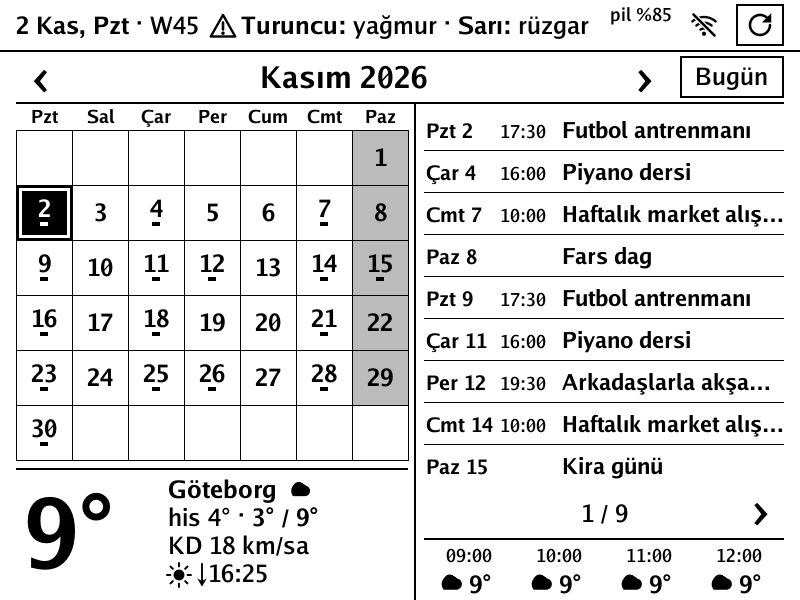
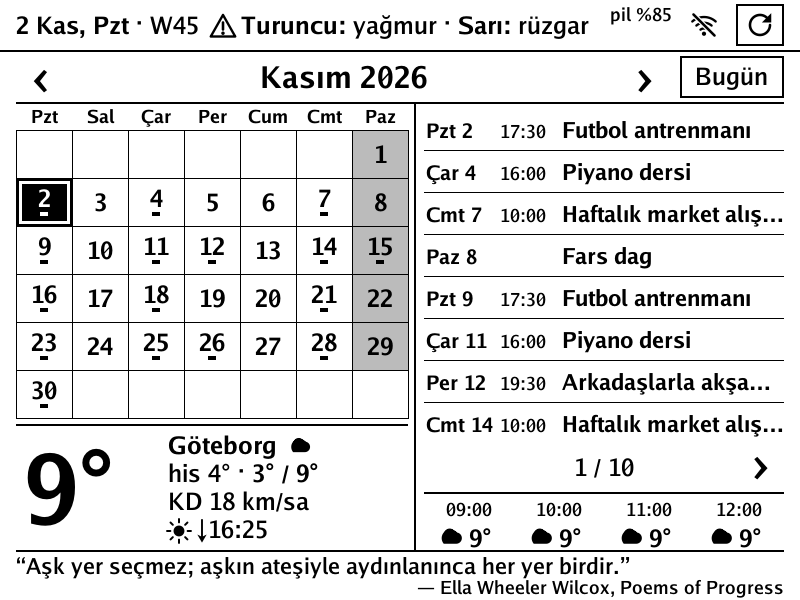
Passage band along the bottom of the calendar screen
Today's passage comes back on one 22 px line with its author below (48 px),
taken from the month grid and the list.

Changed region(s): [[0.0, 0.27, 1.0, 1.0], [0.25, 0.3, 0.2812, 0.66]]

diff --git a/kobo/screen.go b/kobo/screen.go
@@ -2,13 +2,12 @@ package main
 
 // The one screen: calendar first. Left: the month, Göteborg (or wherever the device is) now.
 // Right: the selected day and everything after it, one line per event, over the next hours.
-// SMHI warnings ride in the header (nav).
+// SMHI warnings ride in the header (nav); a passage runs along the bottom.
 
 import (
 	"fmt"
 	"image"
 	"image/color"
-	"os"
 	"time"
 )
 
@@ -17,25 +16,9 @@ const (
 	rx    = split + 16
 )
 
+// drawMain: header; month over the weather now (left); the list over the next hours (right);
+// today's passage on one line along the bottom.
 func (a *App) drawMain(img *image.Gray) {
-	if os.Getenv("QBAND") != "" { // PROTO
-		a.drawMainQ(img)
-		return
-	}
-	a.nav(img)
-	a.monthNav(img, image.Rect(mx, 54, W-mx, 100))
-	fill(img, image.Rect(mx, 102, W-mx, 104), black)
-	fill(img, image.Rect(split+6, 104, split+8, H), black)
-	a.dayGrid(img, image.Rect(mx, 104, split, 464), a.month, 6)
-	fill(img, image.Rect(mx, 468, split, 470), black)
-	a.drawNow(img, 470)
-	a.drawAgenda(img, image.Rect(rx, 108, W-mx, 534), 42)
-	fill(img, image.Rect(rx, 538, W-mx, 540), black)
-	a.drawHours(img, rx, 540, 4)
-}
-
-// PROTO: the same screen over a one-line passage band along the bottom (48 px).
-func (a *App) drawMainQ(img *image.Gray) {
 	a.nav(img)
 	a.monthNav(img, image.Rect(mx, 54, W-mx, 100))
 	fill(img, image.Rect(mx, 102, W-mx, 104), black)

diff --git a/kobo/quotes.go b/kobo/quotes.go
@@ -18,7 +18,7 @@ var quotesTSV string
 
 type Quote struct{ Text, Author, Work string }
 
-// quoteFace: the one-line passage band's face (not on the calendar screen; kept with the pool).
+// quoteFace: the one-line passage band along the bottom of the screen.
 func quoteFace() font.Face { return face(false, 22) }
 
 var quotes = func() []Quote {

diff --git a/README.md b/README.md
@@ -17,6 +17,7 @@ One screen, calendar first:
 - **The weather now** under the month: the home city with a large temperature and four short lines beside it: place, feels-like with the day's min/max (tomorrow's after 17:00, marked `yarın`), wind, and the next sunset or sunrise (`☀↓16:28`). Under the list, a thin strip with the next four hours. Both come from the [SMHI](https://opendata.smhi.se) point forecast (no API key; SMHI only covers the Nordics).
 - **Official SMHI warnings** in the top bar, right of the date and ISO week, on one line: `Turuncu: şiddetli yağmur · Sarı: kuvvetli rüzgar`, shortened to `Turuncu: yağmur · Sarı: rüzgar` (and the month name to `Kas`) when space runs out.
 - **Where it is**, unless the config names a place: the city is looked up from the public IP once a day ([geojs.io](https://www.geojs.io) and [ipwho.is](https://ipwho.is), no key). The two have to agree within 50 km, and a move further than that is only believed when a second lookup an hour later says the same, because IP databases put some ISPs in Stockholm one minute and Göteborg the next. The county found this way also picks the SMHI warnings, unless `WARN_REGION` is set.
+- **One passage a day** along the bottom, on a single line with its author below: prose from public-domain novels and essays, and verse from public-domain poets, in Turkish (`kobo/quotes.tsv`).
 - A top bar with the next scheduled update and battery level, Wi-Fi state (tap to pin it on) and a refresh button that also checks for a new release.
 
 ### Why it looks like this
@@ -147,7 +148,7 @@ To publish a release: `tools/release.sh v0.2.0` builds, signs, tags and uploads 
 
 `kobo/quotes.tsv` holds 220 passages: 144 sentences from novels, 38 from essays and philosophy (Stevenson, Chesterton, Emerson, Marcus Aurelius and others), 34 extracts from English poems and 4 from Yunus Emre. Religious lines, including mystic verse about the love of God, are left out on purpose. Each row has the Turkish text, author, work, the original and its source (a Project Gutenberg book number, or `ws:` for a Turkish Wikisource page). Every passage is one line on screen: long ones were cut by hand to a self-contained excerpt (the `en` column holds the matching piece of the original), and verse lines are joined with ` / `. A novel gives at most one passage and a poetry collection at most three. Every author or translator died before 1955, so the originals are public domain in the US, the EU and Turkey. The English translations into Turkish are new; Yunus Emre is shown as written.
 
-Since v0.7.0 the calendar screen has no room for them and they are not shown; the pool and its checks stay in the repo. When they were on screen it was one passage per day, the same one all day, with a new shuffle each year so nothing repeated until the pool ran out.
+The display shows one passage per day, the same one all day. Each year gets its own shuffle, so the order changes every year and nothing repeats until the pool runs out.
 
 How they were chosen: `tools/quote_candidates.py` and `tools/poem_candidates.py` pulled about 11,000 likely lines out of the 6,000 most downloaded books on Project Gutenberg (novels, essays, poetry). An LLM pass kept the joyful, self-contained ones and translated them; a stricter editing pass kept only optimistic lines with real meaning, dropped anything whose source is about grief, and rewrote weak translations. `tools/verify_quotes.py` checks that every original appears word for word in its source, and `go test ./kobo` checks that each passage fits the single line the dashboard gives it.
 
